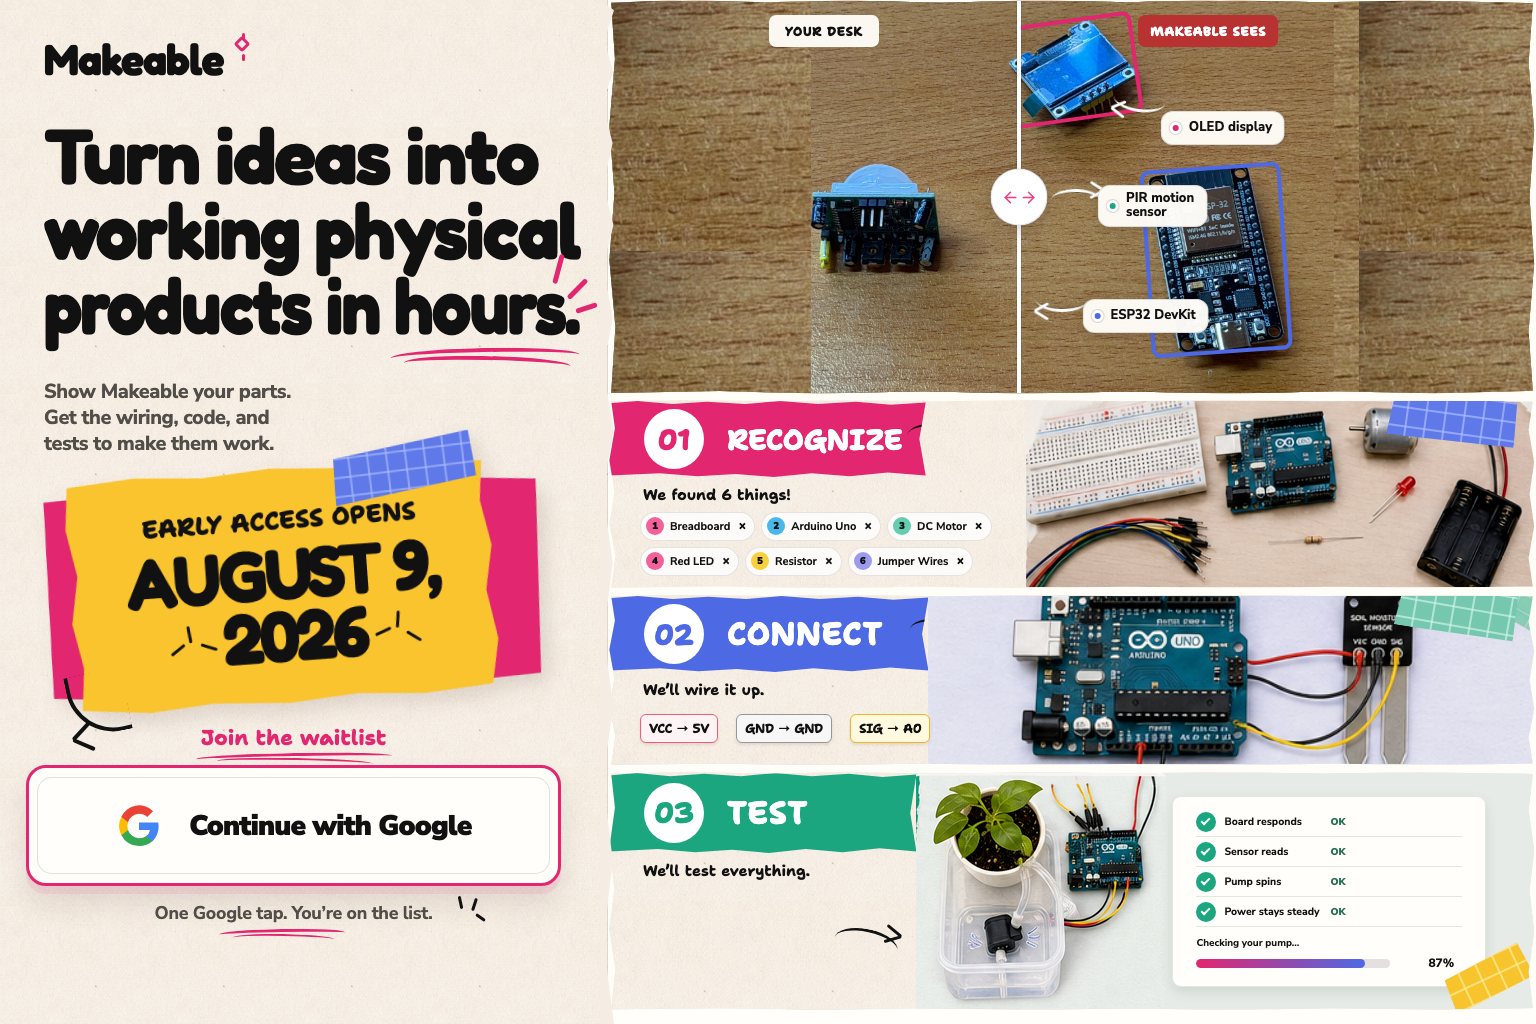
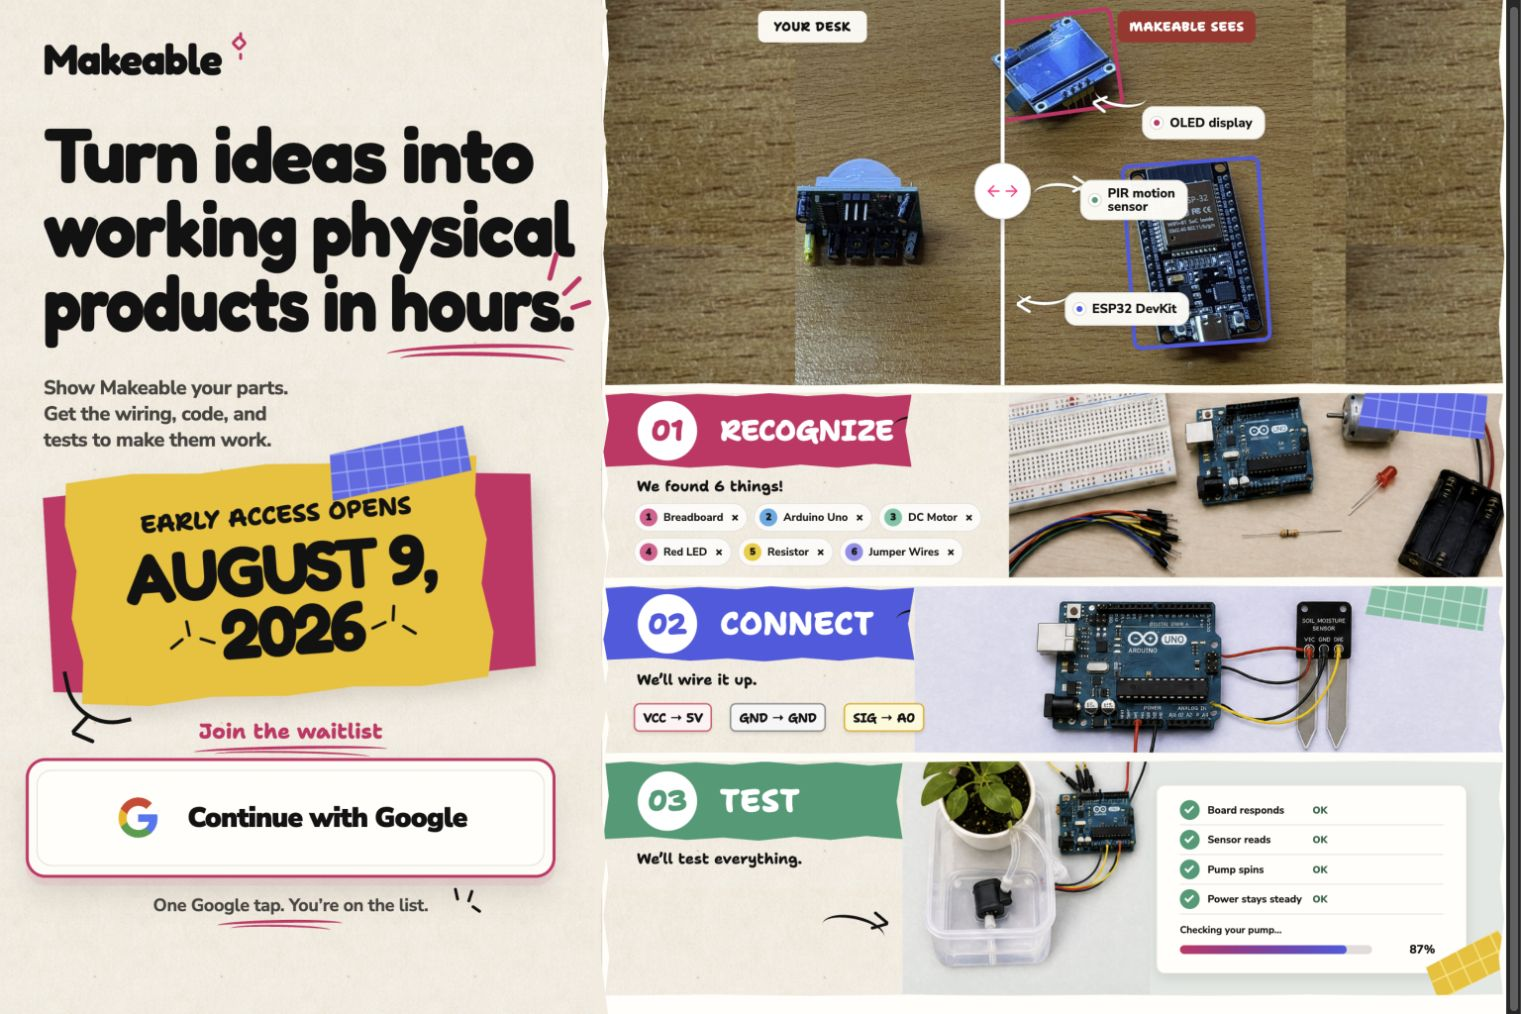
fix(landing): match approved coded UI
Replace flattened hardware crops with clean photographic layers, strengthen responsive sticky clearance, and guard the landing raster allowlist.

diff --git a/tests/unit/landing-assets.test.js b/tests/unit/landing-assets.test.js
@@ -1,0 +1,59 @@
+import assert from "node:assert/strict";
+import { readFileSync } from "node:fs";
+import test from "node:test";
+
+const landingSource = readFileSync(
+  new URL("../../index.html", import.meta.url),
+  "utf8",
+);
+const landingStyles = readFileSync(
+  new URL("../../styles/landing-v2.css", import.meta.url),
+  "utf8",
+);
+const landingScript = readFileSync(
+  new URL("../../landing.js", import.meta.url),
+  "utf8",
+);
+const runtimeSources = [landingSource, landingStyles, landingScript];
+
+const imageSources = [...landingSource.matchAll(/<img\b[\s\S]*?\bsrc="([^"]+)"/g)]
+  .map((match) => match[1])
+  .sort();
+
+const approvedImageSources = [
+  "/assets/icons/google-g.svg",
+  "/assets/icons/lucide/arrow-left.svg",
+  "/assets/icons/lucide/arrow-right.svg",
+  "/assets/landing/connect-hardware-clean.png",
+  "/assets/landing/desk-parts.jpeg",
+  "/assets/landing/recognize-hardware-clean-v2.png",
+  "/assets/landing/test-hardware-clean-v2.png",
+].sort();
+
+const rasterSources = [
+  ...new Set(
+    runtimeSources.flatMap((source) =>
+      [...source.matchAll(/\/assets\/[^\s"'()]+\.(?:png|jpe?g|webp)/g)].map(
+        (match) => match[0],
+      ),
+    ),
+  ),
+].sort();
+
+const approvedRasterSources = [
+  "/assets/landing/connect-hardware-clean.png",
+  "/assets/landing/desk-parts.jpeg",
+  "/assets/landing/desk-wood-fill.jpeg",
+  "/assets/landing/paper-cream.jpeg",
+  "/assets/landing/recognize-hardware-clean-v2.png",
+  "/assets/landing/test-hardware-clean-v2.png",
+].sort();
+
+test("landing raster and icon sources stay on the manually audited allowlist", () => {
+  assert.deepEqual(imageSources, approvedImageSources);
+  assert.deepEqual(rasterSources, approvedRasterSources);
+  const runtimeSource = runtimeSources.join("\n");
+  assert.equal(runtimeSource.includes("codex-clipboard"), false);
+  assert.equal(runtimeSource.includes("Screenshot 2026"), false);
+  assert.equal(runtimeSource.includes("product-design-qa"), false);
+});

diff --git a/tests/e2e/landing.spec.js b/tests/e2e/landing.spec.js
@@ -301,13 +301,14 @@ test("process cards use hardware imagery with semantic diagnostics", async ({
 
   await expect(
     page.locator('[data-story-frame="recognize"] .story-image'),
-  ).toHaveAttribute("src", "/assets/landing/recognize-hardware.png");
+  ).toHaveAttribute("src", "/assets/landing/recognize-hardware-clean-v2.png");
   await expect(
     page.locator('[data-story-frame="connect"] .story-image'),
-  ).toHaveAttribute("src", "/assets/landing/connect-hardware.png");
+  ).toHaveAttribute("src", "/assets/landing/connect-hardware-clean.png");
   await expect(
     page.locator('[data-story-frame="test"] .story-image'),
-  ).toHaveAttribute("src", "/assets/landing/test-hardware.png");
+  ).toHaveAttribute("src", "/assets/landing/test-hardware-clean-v2.png");
+  await expect(page.locator(".story-tape.grid-tape")).toHaveCount(2);
   await expect(page.locator(".demo-status-row")).toHaveCount(4);
   await expect(page.locator(".demo-check")).toHaveCount(4);
   await expect(page.locator(".demo-status-row strong")).toHaveText([
@@ -511,8 +512,26 @@ test("mobile story frames stay in normal flow without horizontal overflow", asyn
   const dimensions = await page.evaluate(() => ({
     clientWidth: document.documentElement.clientWidth,
     scrollWidth: document.documentElement.scrollWidth,
+    tapePercentageOverlap: (() => {
+      const tape = document.querySelector(".status-tape").getBoundingClientRect();
+      const percentage = document
+        .querySelector(".demo-progress-row strong")
+        .getBoundingClientRect();
+      const width = Math.max(
+        0,
+        Math.min(tape.right, percentage.right) -
+          Math.max(tape.left, percentage.left),
+      );
+      const height = Math.max(
+        0,
+        Math.min(tape.bottom, percentage.bottom) -
+          Math.max(tape.top, percentage.top),
+      );
+      return width * height;
+    })(),
   }));
   expect(dimensions.scrollWidth).toBeLessThanOrEqual(dimensions.clientWidth);
+  expect(dimensions.tapePercentageOverlap).toBe(0);
 });
 
 test("mobile signup remains visible while its source position is away", async ({
@@ -572,6 +591,16 @@ test("tablet hero stacks instead of squeezing the signup copy", async ({ page })
   await expect(
     page.getByRole("button", { name: "Continue with Google" }),
   ).toBeInViewport({ ratio: 0.98 });
+
+  await page.evaluate(() => window.scrollTo(0, document.documentElement.scrollHeight));
+  await page.waitForTimeout(100);
+  await page.evaluate(() => window.scrollTo(0, document.documentElement.scrollHeight));
+  const bottomClearance = await page.evaluate(() => {
+    const diagnostics = document.querySelector(".demo-status").getBoundingClientRect();
+    const stickySignup = document.querySelector(".hero-signup").getBoundingClientRect();
+    return stickySignup.top - diagnostics.bottom;
+  });
+  expect(bottomClearance).toBeGreaterThanOrEqual(8);
 });
 
 test("mobile navigation links remain tappable and use the mobile photo crop", async ({

diff --git a/styles/landing-v2.css b/styles/landing-v2.css
@@ -1565,11 +1565,9 @@ figure {
 }
 
 .story-scene--connect .story-image {
-  position: absolute;
-  top: 0;
-  left: -12%;
-  width: 124%;
-  max-width: none;
+  position: relative;
+  width: 100%;
+  max-width: 100%;
 }
 
 .story-scene--test .test-hardware-crop .story-image {
@@ -2160,6 +2158,10 @@ figure {
     grid-template-columns: 46% 54%;
   }
 
+  .story-scene--recognize .story-banner {
+    width: 82%;
+  }
+
   .story-scene--connect {
     grid-template-columns: 34.5% 65.5%;
   }
@@ -2492,6 +2494,10 @@ figure {
     height: 72px;
   }
 
+  .story-scene--recognize .story-banner {
+    width: 95%;
+  }
+
   .story-banner h2 {
     font-size: 28px;
   }
@@ -2518,8 +2524,8 @@ figure {
   .story-scene--connect .story-image {
     position: relative;
     top: auto;
-    left: -12%;
-    width: 124%;
+    left: auto;
+    width: 100%;
     aspect-ratio: 590 / 168;
   }
 
@@ -2601,6 +2607,14 @@ figure {
 
   .demo-progress-label {
     font-size: 10px;
+  }
+
+  .demo-progress-row {
+    margin-right: 60px;
+  }
+
+  .status-tape {
+    right: -30px;
   }
 }
 

diff --git a/index.html b/index.html
@@ -241,10 +241,10 @@
             <figure class="story-visual" data-story-frame="recognize">
               <img
                 class="story-image"
-                src="/assets/landing/recognize-hardware.png"
+                src="/assets/landing/recognize-hardware-clean-v2.png"
                 alt="A breadboard, Arduino Uno, motor, LED, resistor, wires, and battery pack on a desk"
-                width="492"
-                height="190"
+                width="1200"
+                height="463"
                 loading="lazy"
                 decoding="async"
               />
@@ -272,10 +272,10 @@
             <figure class="story-visual" data-story-frame="connect">
               <img
                 class="story-image"
-                src="/assets/landing/connect-hardware.png"
+                src="/assets/landing/connect-hardware-clean.png"
                 alt="An Arduino Uno wired to a soil moisture sensor"
-                width="590"
-                height="168"
+                width="1400"
+                height="397"
                 loading="lazy"
                 decoding="async"
               />
@@ -299,10 +299,10 @@
               <div class="test-hardware-crop">
                 <img
                   class="story-image"
-                  src="/assets/landing/test-hardware.png"
+                  src="/assets/landing/test-hardware-clean-v2.png"
                   alt="A plant, pump, and connected Arduino hardware"
-                  width="250"
-                  height="238"
+                  width="800"
+                  height="762"
                   loading="lazy"
                   decoding="async"
                 />

diff --git a/landing.js b/landing.js
@@ -272,7 +272,7 @@ function setupMobileSignup() {
     if (shouldStick) {
       document.body.style.setProperty(
         "--sticky-signup-clearance",
-        `${Math.ceil(signup.getBoundingClientRect().height + 12)}px`,
+        `${Math.ceil(signup.getBoundingClientRect().height + 40)}px`,
       );
     } else {
       document.body.style.removeProperty("--sticky-signup-clearance");

diff --git a/design-qa.md b/design-qa.md
@@ -23,7 +23,8 @@
    Google CTA, hand underline details, and the approved August 9, 2026 date.
 4. The process scenes now use vivid approved pink/blue/green banners, torn
    paper boundaries, six-to-seven-pixel desktop seams, corrected Connect/Test column
-   ratios, and the same hardware crops as the approved source.
+   ratios, and clean hardware-only photography with no baked-in tape, arrows,
+   labels, status UI, or other interface decoration.
 5. The final reference and implementation were viewed together at the same
    1536 × 1024 scale. The changed headline copy is intentional:
    `Turn ideas into working physical products in hours.` No unresolved P0, P1,
@@ -67,7 +68,8 @@ Results:
 - Wordmark, marker rays, double underlines, arrows, torn poster, wiring chips,
   diagnostic checks, progress, and colored tape are all coded HTML/CSS rather
   than flattened interface screenshots. Raster content is limited to paper
-  texture and hardware photography.
+  texture and the three clean hardware photographs in
+  `assets/landing/*-hardware-clean*.png`.
 - Google configuration errors, verified signup success, and pilot redirect.
 - Tablet/mobile sticky CTA behavior and safe bottom clearance.
 - Focus treatment, live status messaging, reduced motion, labels, and touch
@@ -86,7 +88,7 @@ Results:
 ## Verification results
 
 - Build checks: passed.
-- Unit suite: 127 passed.
+- Unit suite: 128 passed.
 - Complete browser, interaction, responsive, and accessibility suite: 192 passed.
 - Final browser console review: no landing-page errors.
 - Final combined reference review: passed.

diff --git a/assets/README.md b/assets/README.md
@@ -18,3 +18,9 @@ from the pinned `esptool-js@0.5.7` dependency. Its Apache License 2.0 text is
 retained beside the vendored bundle. Makeable imports this local copy so board
 loading never depends on a runtime CDN request. The bundle's pako, atob-lite,
 and tslib dependency licenses are retained under `vendor/esptool-js/licenses/`.
+
+The three versioned `landing/*-hardware-clean*.png` files are hardware-only photographic
+layers produced with the built-in ImageGen editing workflow from the approved
+landing references. They intentionally contain no interface text, tape,
+arrows, labels, checks, progress, or other baked-in UI; those elements are
+rendered semantically by `index.html` and `styles/landing-v2.css`.